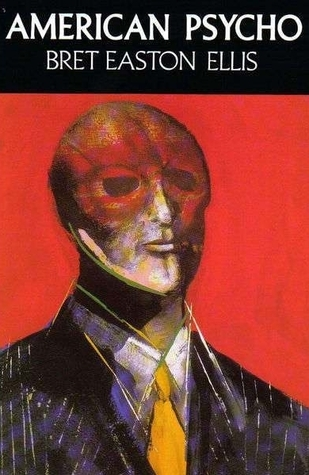
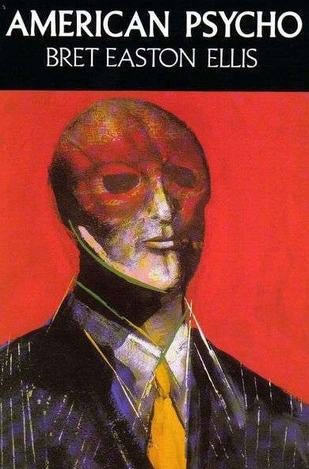
Updated Images
• Made all book covers the same ratio

diff --git a/index.html b/index.html
@@ -19,7 +19,7 @@
       <div class="collapse navbar-collapse" id="navbarSupportedContent">
         <ul class="navbar-nav me-auto mb-2 mb-lg-0">
           <li class="nav-item">
-            <a class="nav-link active" aria-current="page" href="#">My Books</a>
+            <a class="nav-link" href="#">My Books</a>
           </li>
           <li class="nav-item">
             <a class="nav-link" href="genres.html">Browse Genres</a>
@@ -101,10 +101,10 @@
 
           <div class="col-3">
               <a href="#">
-                <img class="img-fluid" src="images/book-just-kids.jpg" alt="">
+                <img class="img-fluid" src="images/book-catching-fire.jpg" alt="">
               </a>
               <a href="#" class="book-link">
-                <h6>Just Kids</h6>
+                <h6>Catching Fire</h6>
               </a>
           </div>
 
@@ -157,10 +157,10 @@
 
           <div class="col-3">
             <a href="#">
-              <img class="img-fluid" src="images/book-1984.jpg" alt="">
+              <img class="img-fluid" src="images/book-twilight.jpg" alt="">
             </a>
             <a href="#" class="book-link">
-              <h6>1984</h6>
+              <h6>Twilight</h6>
             </a>
           </div>
 

diff --git a/scss/custom.scss b/scss/custom.scss
@@ -28,15 +28,26 @@ $border-color: rgb(56, 35, 24);
     text-decoration: underline;
 }
 
-.book-link {
-    color: $tertiary;
-    text-decoration: none;
+.row {
+    height: 100%;  // Ensure the row takes up the full height available
+  }
+  
+  .book-item {
+    display: flex;               // Use flexbox layout for the container
+    flex-direction: column;      // Stack elements vertically
+    height: 100%;                // Ensure the item takes up full height of the column
+  }
+  
+  .book-link {
+    margin-top: auto;            // Push the link (and h6) to the bottom of the container
+    color: $tertiary;            // Apply your tertiary color
+    text-decoration: none;       // Remove underline by default
   
     &:hover {
-      text-decoration: underline;
+      text-decoration: underline; // Underline on hover
     }
   }
-
+  
 .footer-list {
     ul {
       list-style-type: none; // Remove bullets

diff --git a/css/custom.css b/css/custom.css
@@ -16,7 +16,18 @@
   text-decoration: underline;
 }
 
+.row {
+  height: 100%;
+}
+
+.book-item {
+  display: flex;
+  flex-direction: column;
+  height: 100%;
+}
+
 .book-link {
+  margin-top: auto;
   color: #366865;
   text-decoration: none;
 }
